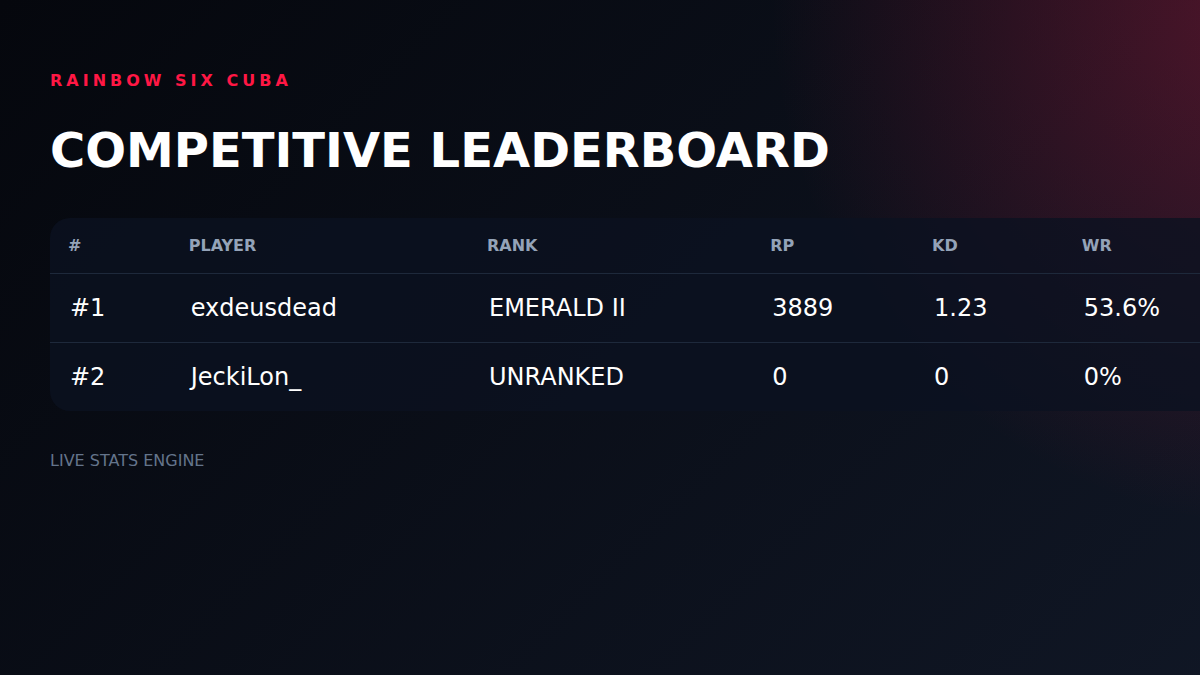
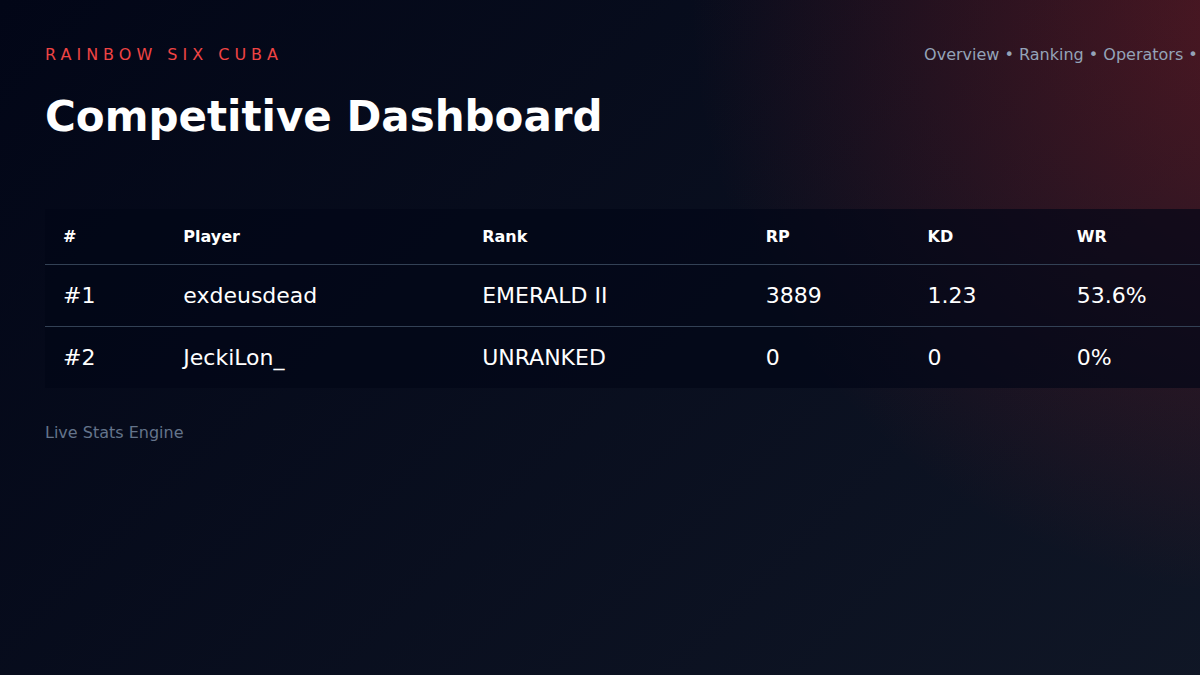
M-056.8 Separate render engine templates

diff --git a/render/leaderboardRenderer.js b/render/leaderboardRenderer.js
@@ -1,22 +1,21 @@
-const fs = require("fs");
-const path = require("path");
-const puppeteer = require("puppeteer");
+const fs=require("fs");
+const path=require("path");
+
+const {
+ renderHtml
+}=require("./engine/browser");
+
 
 async function renderLeaderboard(players){
 
-const browser = await puppeteer.launch({
- headless:true,
- args:["--no-sandbox"]
-});
+let template=fs.readFileSync(
+ path.join(__dirname,"templates","leaderboard.html"),
+ "utf8"
+);
 
-const page = await browser.newPage();
 
-await page.setViewport({
- width:1200,
- height:675
-});
+const rows=players.map((p,i)=>`
 
-const rows = players.map((p,i)=>`
 <tr>
 <td>#${i+1}</td>
 <td>${p.name}</td>
@@ -25,140 +24,24 @@ const rows = players.map((p,i)=>`
 <td>${p.kd}</td>
 <td>${p.wr}%</td>
 </tr>
+
 `).join("");
 
-const html=`
-<html>
-<body>
 
-<div class="panel">
-
-<h4>RAINBOW SIX CUBA</h4>
-<h1>COMPETITIVE LEADERBOARD</h1>
-
-<table>
-
-<thead>
-<tr>
-<th>#</th>
-<th>PLAYER</th>
-<th>RANK</th>
-<th>RP</th>
-<th>KD</th>
-<th>WR</th>
-</tr>
-</thead>
-
-<tbody>
-${rows}
-</tbody>
-
-</table>
-
-<div class="footer">
-LIVE STATS ENGINE
-</div>
-
-</div>
-
-
-<style>
-
-body{
-margin:0;
-background:#05070d;
-font-family:Arial;
-color:white;
-}
-
-.panel{
-width:1200px;
-height:675px;
-padding:50px;
-background:
-radial-gradient(circle at top right,#e11d4855,transparent 35%),
-linear-gradient(135deg,#05070d,#111827);
-}
-
-h4{
-color:#ff1744;
-letter-spacing:4px;
-}
-
-h1{
-font-size:48px;
-}
-
-table{
-width:100%;
-border-collapse:collapse;
-margin-top:40px;
-background:#0b1120cc;
-border-radius:20px;
-overflow:hidden;
-}
-
-th{
-color:#94a3b8;
-text-align:left;
-padding:18px;
-}
-
-td{
-padding:20px;
-font-size:24px;
-border-top:1px solid #1e293b;
-}
-
-.footer{
-margin-top:40px;
-color:#64748b;
-}
-
-</style>
-
-</body>
-</html>
-`;
-
-await page.setContent(html);
-
-const output=path.join(
-__dirname,
-"output",
-"leaderboard.png"
+template=template.replace(
+ "{{ROWS}}",
+ rows
 );
 
-await page.screenshot({path:output});
 
-await browser.close();
-
-return output;
-
-}
-
-
-if(require.main===module){
-
-const profiles=JSON.parse(
-fs.readFileSync(
-path.join(__dirname,"..","data","r6_profiles.json")
-)
+return renderHtml(
+ template,
+ path.join(__dirname,"output","leaderboard.png")
 );
 
-const players=Object.values(profiles)
-.map(p=>({
-name:p.ubisoftName,
-rank:p.currentRank || p.parsedStats?.currentRank || "UNRANKED",
-rp:p.currentRp || p.parsedStats?.currentRp || 0,
-kd:p.seasonKd || p.parsedStats?.seasonKd || 0,
-wr:p.seasonWinRate || p.parsedStats?.seasonWinRate || 0
-}))
-.sort((a,b)=>b.rp-a.rp)
-.slice(0,10);
-
-renderLeaderboard(players).then(console.log);
-
 }
 
-module.exports={renderLeaderboard};
+
+module.exports={
+ renderLeaderboard
+};

diff --git a/render/templates/leaderboard.html b/render/templates/leaderboard.html
@@ -1,0 +1,123 @@
+<html>
+
+<body>
+
+<div class="app">
+
+<header>
+
+<div>
+<span>RAINBOW SIX CUBA</span>
+<h1>Competitive Dashboard</h1>
+</div>
+
+<nav>
+Overview • Ranking • Operators • Maps
+</nav>
+
+</header>
+
+
+<table>
+
+<thead>
+<tr>
+<th>#</th>
+<th>Player</th>
+<th>Rank</th>
+<th>RP</th>
+<th>KD</th>
+<th>WR</th>
+</tr>
+</thead>
+
+<tbody>
+
+{{ROWS}}
+
+</tbody>
+
+</table>
+
+
+<footer>
+Live Stats Engine
+</footer>
+
+
+</div>
+
+
+<style>
+
+body{
+margin:0;
+font-family:Arial;
+background:#020617;
+color:white;
+}
+
+
+.app{
+width:1200px;
+height:675px;
+padding:45px;
+background:
+radial-gradient(circle at top right,#dc262655,transparent 40%),
+linear-gradient(135deg,#020617,#111827);
+}
+
+
+header{
+display:flex;
+justify-content:space-between;
+}
+
+
+span{
+color:#ef4444;
+letter-spacing:5px;
+}
+
+
+h1{
+font-size:42px;
+}
+
+
+nav{
+color:#94a3b8;
+}
+
+
+table{
+margin-top:40px;
+width:100%;
+border-collapse:collapse;
+background:#020617aa;
+}
+
+
+th,td{
+padding:18px;
+text-align:left;
+}
+
+
+td{
+border-top:1px solid #334155;
+font-size:22px;
+}
+
+
+footer{
+margin-top:35px;
+color:#64748b;
+}
+
+</style>
+
+
+</body>
+
+</html>

diff --git a/render/engine/browser.js b/render/engine/browser.js
@@ -1,0 +1,31 @@
+const puppeteer = require("puppeteer");
+
+async function renderHtml(html, output){
+
+  const browser = await puppeteer.launch({
+    headless:true,
+    args:["--no-sandbox"]
+  });
+
+  const page = await browser.newPage();
+
+  await page.setViewport({
+    width:1200,
+    height:675
+  });
+
+  await page.setContent(html);
+
+  await page.screenshot({
+    path:output
+  });
+
+  await browser.close();
+
+  return output;
+}
+
+
+module.exports={
+  renderHtml
+};